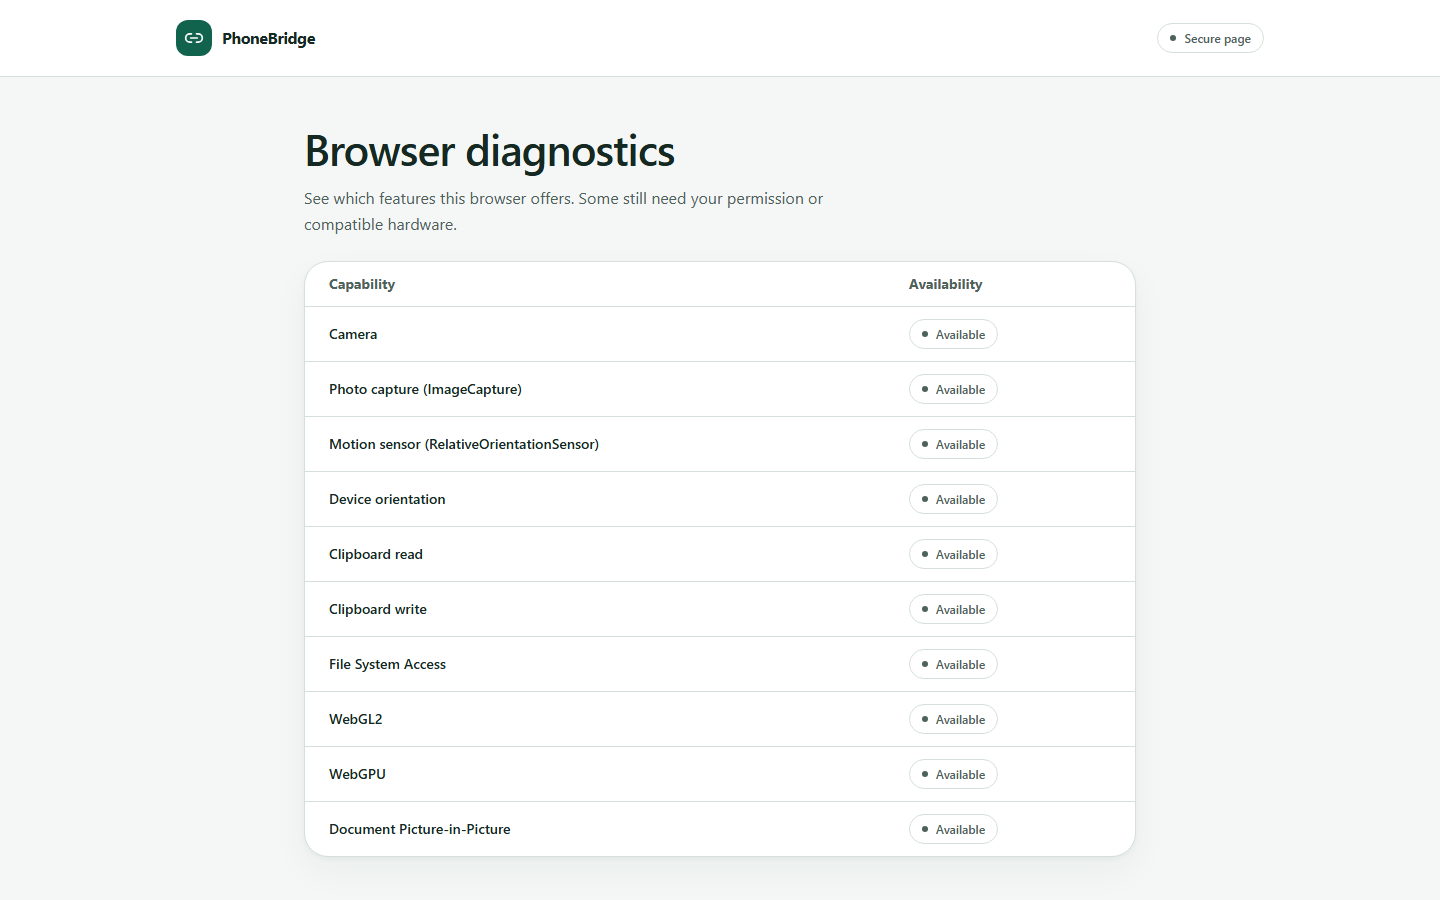
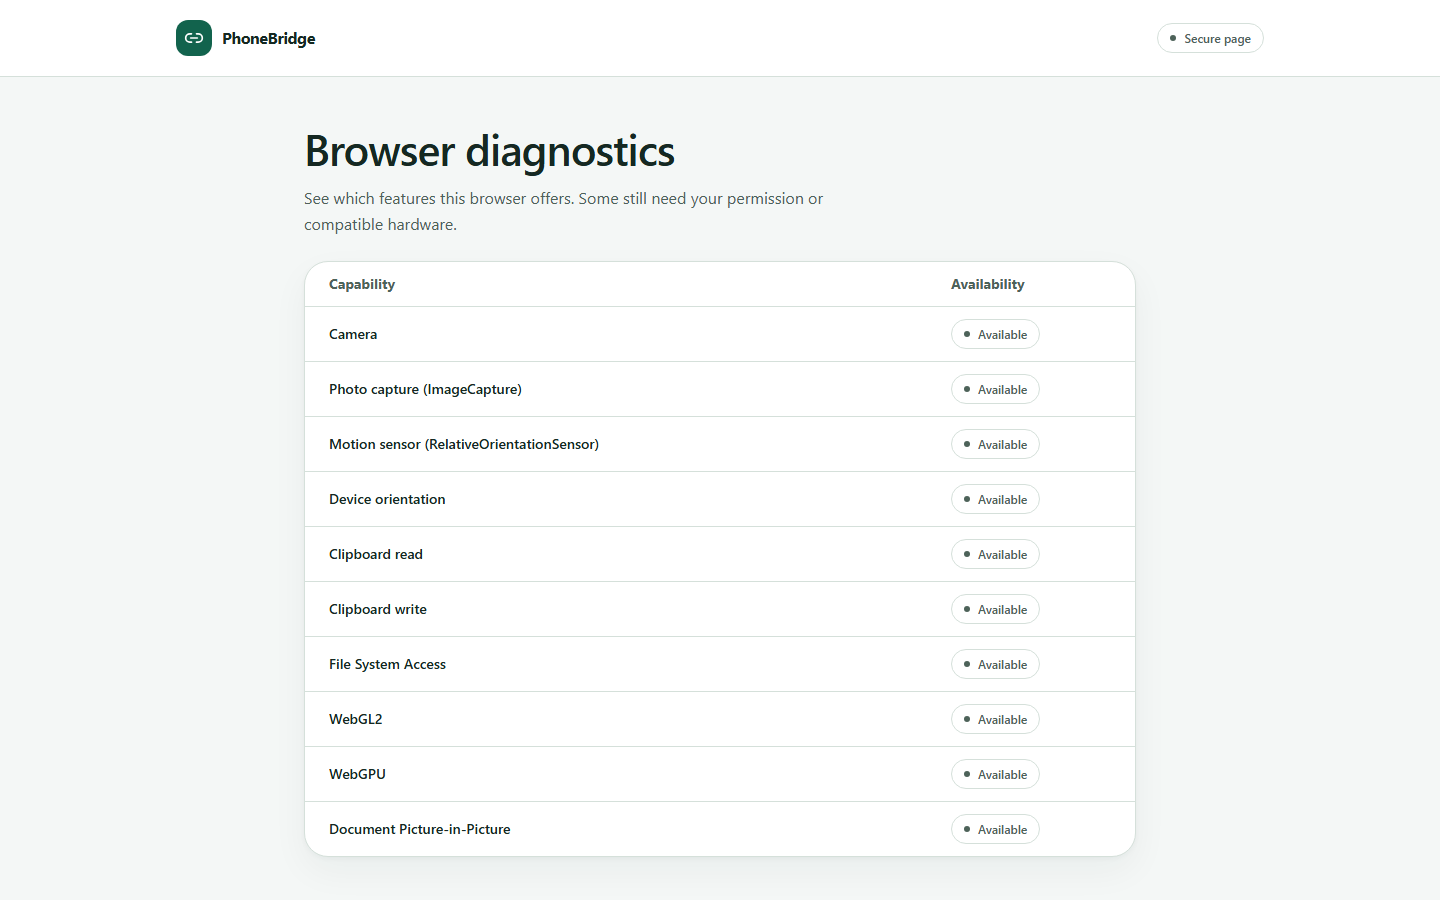
fix(diagnostics): stabilize the narrow-screen table
Codex-Stage: Understand
Codex-Surface: app
Codex-Model: gpt-6.2-sol
Codex-Effort: medium
Codex-Why: Resolve the hosted mobile layout failure and record verification.
Codex-Capabilities: image-input, github-actions, exec

diff --git a/e2e/diagnostics.spec.ts b/e2e/diagnostics.spec.ts
@@ -48,9 +48,14 @@ for (const { name, width, height, colorScheme } of views) {
       }
       if (name === "phone") {
         await page.setViewportSize({ width: 360, height });
-        expect(
-          await page.evaluate(() => document.documentElement.scrollWidth),
-        ).toBe(360);
+        await expect
+          .poll(() =>
+            page.evaluate(() => ({
+              viewport: window.innerWidth,
+              document: document.documentElement.scrollWidth,
+            })),
+          )
+          .toEqual({ viewport: 360, document: 360 });
       }
       await page.getByRole("link", { name: "PhoneBridge home" }).click();
       await expect(
@@ -63,6 +68,7 @@ for (const { name, width, height, colorScheme } of views) {
 test("diagnostics explains how to enable secure-context checks", async ({
   page,
 }) => {
+  await page.setViewportSize({ width: 360, height: 844 });
   await page.addInitScript(() => {
     Object.defineProperty(window, "isSecureContext", { value: false });
     Object.defineProperty(HTMLCanvasElement.prototype, "getContext", {
@@ -81,5 +87,8 @@ test("diagnostics explains how to enable secure-context checks", async ({
   await expect(webgl.getByRole("cell", { name: "Unavailable" })).toBeVisible();
   await expect(webgl).toContainText(
     "Try a browser or device with WebGL2 enabled.",
+  );
+  expect(await page.evaluate(() => document.documentElement.scrollWidth)).toBe(
+    360,
   );
 });

diff --git a/apps/web/src/diagnostics/diagnostics-page.tsx b/apps/web/src/diagnostics/diagnostics-page.tsx
@@ -96,7 +96,7 @@ export default function DiagnosticsPage() {
         <Card>
           {report ? (
             <table
-              className="w-full text-left text-sm"
+              className="w-full table-fixed text-left text-sm"
               aria-label="Browser capabilities"
             >
               <thead>
@@ -104,7 +104,7 @@ export default function DiagnosticsPage() {
                   <th scope="col" className="px-4 py-3 sm:px-6">
                     Capability
                   </th>
-                  <th scope="col" className="px-3 py-3 sm:px-6">
+                  <th scope="col" className="w-32 px-3 py-3 sm:w-52 sm:px-6">
                     Availability
                   </th>
                 </tr>
@@ -114,7 +114,7 @@ export default function DiagnosticsPage() {
                   <tr key={id} className="border-b border-line last:border-b-0">
                     <th
                       scope="row"
-                      className="px-4 py-3 font-semibold wrap-break-word sm:px-6"
+                      className="px-4 py-3 font-semibold wrap-anywhere sm:px-6"
                     >
                       {copy[id].name}
                       {status === "unavailable" && (

diff --git a/docs/evidence/sessions/T02.md b/docs/evidence/sessions/T02.md
@@ -6,11 +6,12 @@
 - Prompt — “next”
 - Built — A browser diagnostics table, browser capability matrix, and phone HTTPS instructions for a temporary tunnel or locally trusted certificate
 - Decisions — [Browser capability checks and local HTTPS](../../design/decisions.md#t02--browser-diagnostics-and-local-https)
-- PR — Pending publication
+- PR — [#3](https://github.com/Suman-Rajak/Phone-Bridge/pull/3)
 
 ## Verification
 
 - Lint, typecheck, 26 Vitest tests, and the production build passed. Unit tests cover all ten checks with mocked browser globals.
 - Six Chromium tests passed. The diagnostics tests cover the secure and insecure states, laptop and phone layouts, and zero serious or critical axe violations.
 - A certificate-verified HTTPS request and an HTTP request using the allowlisted tunnel hostname each returned the diagnostics app from Vite. Real-phone and external tunnel verification remain for H2 and H3.
+- See the [GitHub Actions checks](https://github.com/Suman-Rajak/Phone-Bridge/pull/3/checks) and the [360 px layout fix](../../test/bug-log.md#t02--diagnostics-table-at-360-px).
 - Reviewed the [laptop screenshot at 1440 × 900](../screenshots/app/T02-diagnostics-laptop.png) and the [phone screenshot at 390 × 844](../screenshots/app/T02-diagnostics-phone.png).

diff --git a/docs/test/bug-log.md b/docs/test/bug-log.md
@@ -6,4 +6,12 @@
 - Reproduction — Check out the merged foundation with `core.autocrlf=true`, then run `pnpm lint`.
 - Cause — Git materializes CRLF in the working tree while Prettier defaults to LF.
 - Fix — Let Prettier follow each file’s line endings while still checking its formatting.
-- PR — Pending publication.
+- PR — [#3](https://github.com/Suman-Rajak/Phone-Bridge/pull/3).
+
+## T02 · Diagnostics table at 360 px
+
+- Symptom — Hosted Chromium reported a 390 px document after resizing the diagnostics page to 360 px.
+- Reproduction — Run the diagnostics phone test in the [first hosted CI run](https://github.com/Suman-Rajak/Phone-Bridge/actions/runs/45612508903/job/139199404617).
+- Cause — The table relied on intrinsic column widths and the test sampled layout immediately after resizing.
+- Fix — Constrain the table columns, let long labels wrap, and check layout once the viewport resize is reflected in the page.
+- PR — [#3](https://github.com/Suman-Rajak/Phone-Bridge/pull/3).

diff --git a/docs/ROADMAP.md b/docs/ROADMAP.md
@@ -182,7 +182,7 @@ docs/   understand/ plan/ design/(adr/) test/(results/) review/ ship/ automate/ 
 - Verify: `pnpm test && pnpm test:e2e -- ui-gallery`
 
 #### T02 · Capability diagnostics + HTTPS dev guide
-- Stage: Understand · Effort: medium · Depends: T01 · Status: in-progress
+- Stage: Understand · Effort: medium · Depends: T01 · Status: done (PR #3)
 - Build: `/diagnostics` page that feature-detects camera, `ImageCapture`, `RelativeOrientationSensor`, `deviceorientation`, Clipboard read/write, File System Access, WebGL2, WebGPU, Document Picture-in-Picture, shown as a table. Write `docs/ship/dev-https.md`: step-by-step for making the dev server reachable over HTTPS from a phone (tunnel or locally trusted certificate). Write `docs/understand/browser-capabilities.md` (expected support; confirmed later by H3).
 - Done when: unit tests for each detector with mocked globals; page renders in Playwright Chromium.
 - Verify: `pnpm test && pnpm test:e2e -- diagnostics`

diff --git a/docs/plan/PROGRESS.md b/docs/plan/PROGRESS.md
@@ -12,6 +12,6 @@ Delivered in [PR #2](https://github.com/Suman-Rajak/Phone-Bridge/pull/2). Two Vi
 
 ## T02 · Capability diagnostics and HTTPS development guide
 
-Implemented on `t02-capability-diagnostics`. The [browser capability matrix](../understand/browser-capabilities.md) and [HTTPS development guide](../ship/dev-https.md) cover browser and device setup. See the [session evidence](../evidence/sessions/T02.md).
+Delivered in [PR #3](https://github.com/Suman-Rajak/Phone-Bridge/pull/3). The diagnostics route checks ten capabilities. Twenty-six unit tests and six Chromium tests passed locally, with zero serious or critical axe findings. Local HTTPS and the tunnel hostname configuration passed server checks. See the [browser capability matrix](../understand/browser-capabilities.md), [HTTPS development guide](../ship/dev-https.md), and [session evidence](../evidence/sessions/T02.md).
 
 Next is T03, vision research, OpenCV packaging, detection, and baseline.
